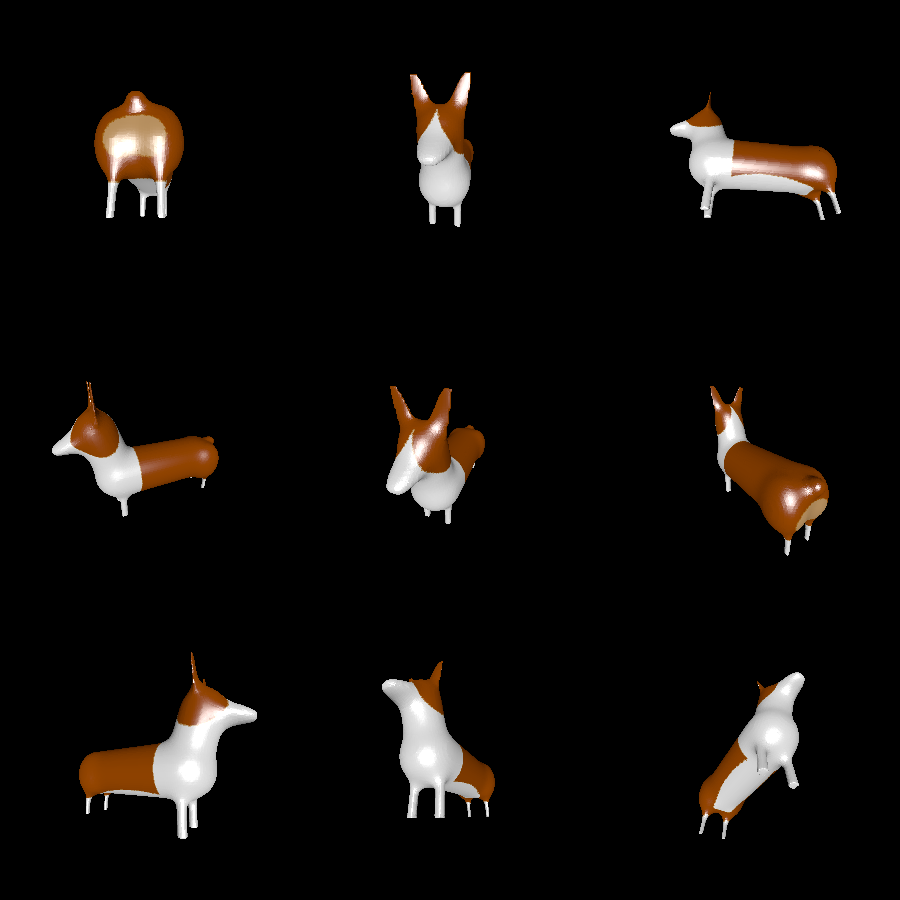
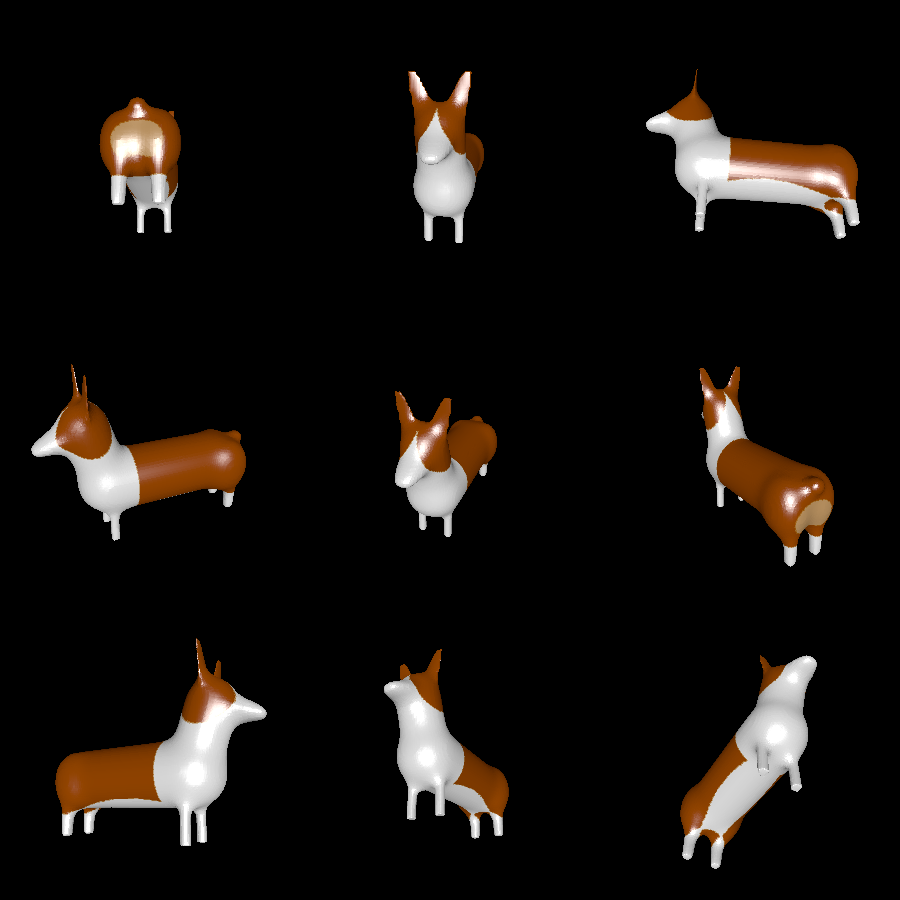
corgi: add README, thicker back legs
The back legs shrink due to smoothing, so increasing their radius a bit
is necessary.

diff --git a/examples/decoration/corgi/main.go b/examples/decoration/corgi/main.go
@@ -40,6 +40,7 @@ const (
 	LegInset               = 0.15
 	LegRadius              = 0.07
 	LegMinZ                = -0.6
+	HindLegRadius          = 0.09
 	HindLegX               = -0.2
 	HindLegMuscleWidth     = 0.5
 	HindLegMuscleHeight    = 0.6
@@ -178,12 +179,16 @@ func MakeLegs() model3d.Solid {
 	var res model3d.JoinedSolid
 	y1 := -BodyRadius + LegInset
 	bottomZ := LegMinZ
-	for _, x := range []float64{HindLegX, BodyLength} {
+	for i, x := range []float64{HindLegX, BodyLength} {
+		legRadius := LegRadius
+		if i == 0 {
+			legRadius = HindLegRadius
+		}
 		for _, y := range []float64{y1, -y1} {
 			res = append(res, &model3d.Cylinder{
 				P1:     model3d.Coord3D{X: x, Y: y},
 				P2:     model3d.Coord3D{X: x, Y: y, Z: bottomZ},
-				Radius: LegRadius,
+				Radius: legRadius,
 			})
 		}
 	}

diff --git a/examples/decoration/corgi/README.md b/examples/decoration/corgi/README.md
@@ -1,0 +1,5 @@
+# corgi
+
+This example shows how to combine a bunch of rough geometric parts into a smooth result. In particular, [smooth_join.go](smooth_join.go) uses signed distance functions combined with the dynamic smoothing API to smooth a mesh more closer to intersections of different parts of the model.
+
+This example also colors its resulting mesh by defining a set of volumes in which various colors are used.
